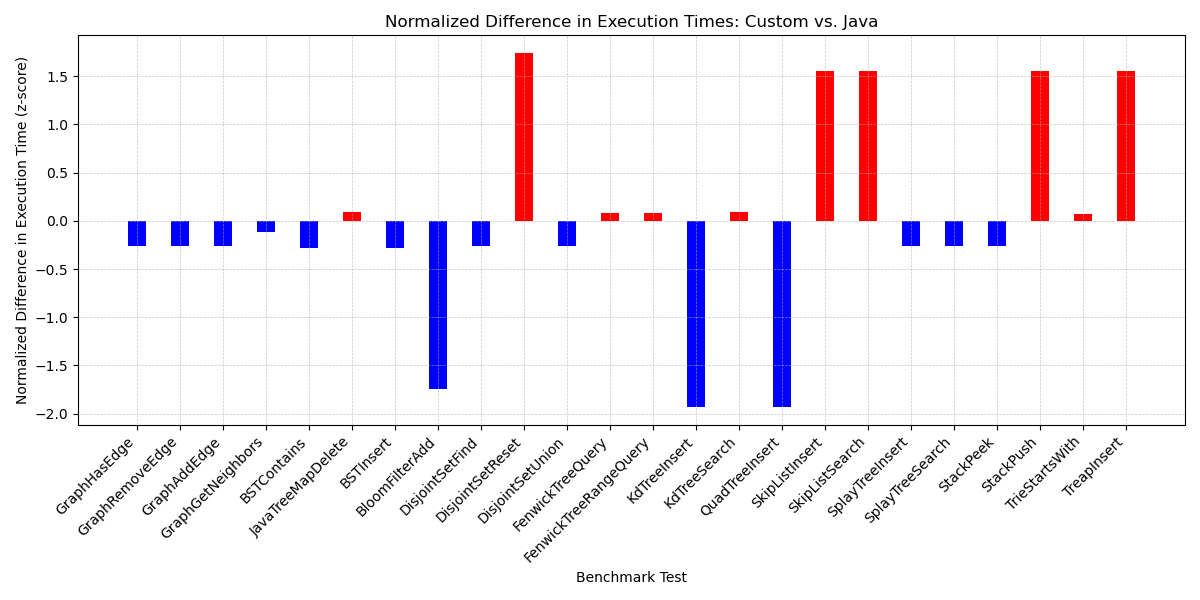
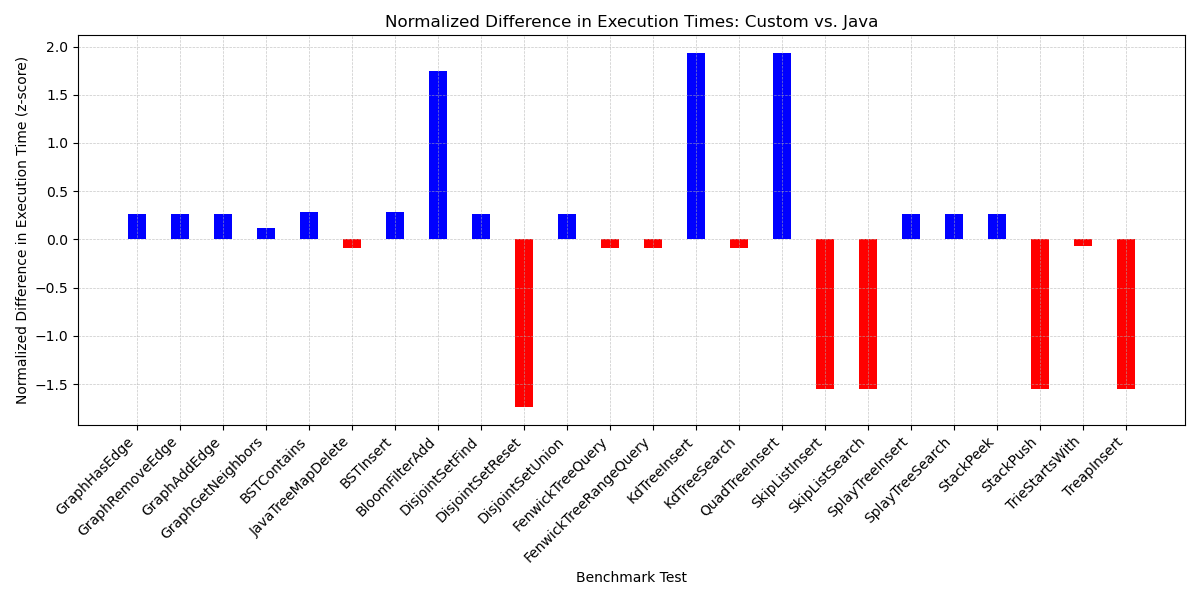
styled the plot differently

diff --git a/scripts/analyze_benchmarks.py b/scripts/analyze_benchmarks.py
@@ -46,7 +46,7 @@ for i in range(0, len(benchmark_data), 2):
         structure2, time2 = benchmark_data[i + 1]
         diff = time1 - time2
         if diff != 0:  # Exclude instances where the subtraction result is 0
-            differences.append(diff)
+            differences.append(-diff)  # Multiply by -1 to flip the plot
             if "Custom" in structure1:
                 x_labels.append(structure1.split("Custom")[1])
             else:
@@ -68,7 +68,7 @@ x = np.arange(len(x_labels))
 width = 0.4
 
 # Color bars based on their value
-colors = ['red' if diff > 0 else 'blue' for diff in normalized_differences]
+colors = ['red' if diff < 0 else 'blue' for diff in normalized_differences]
 
 plt.bar(x, normalized_differences, width, color=colors)
 
